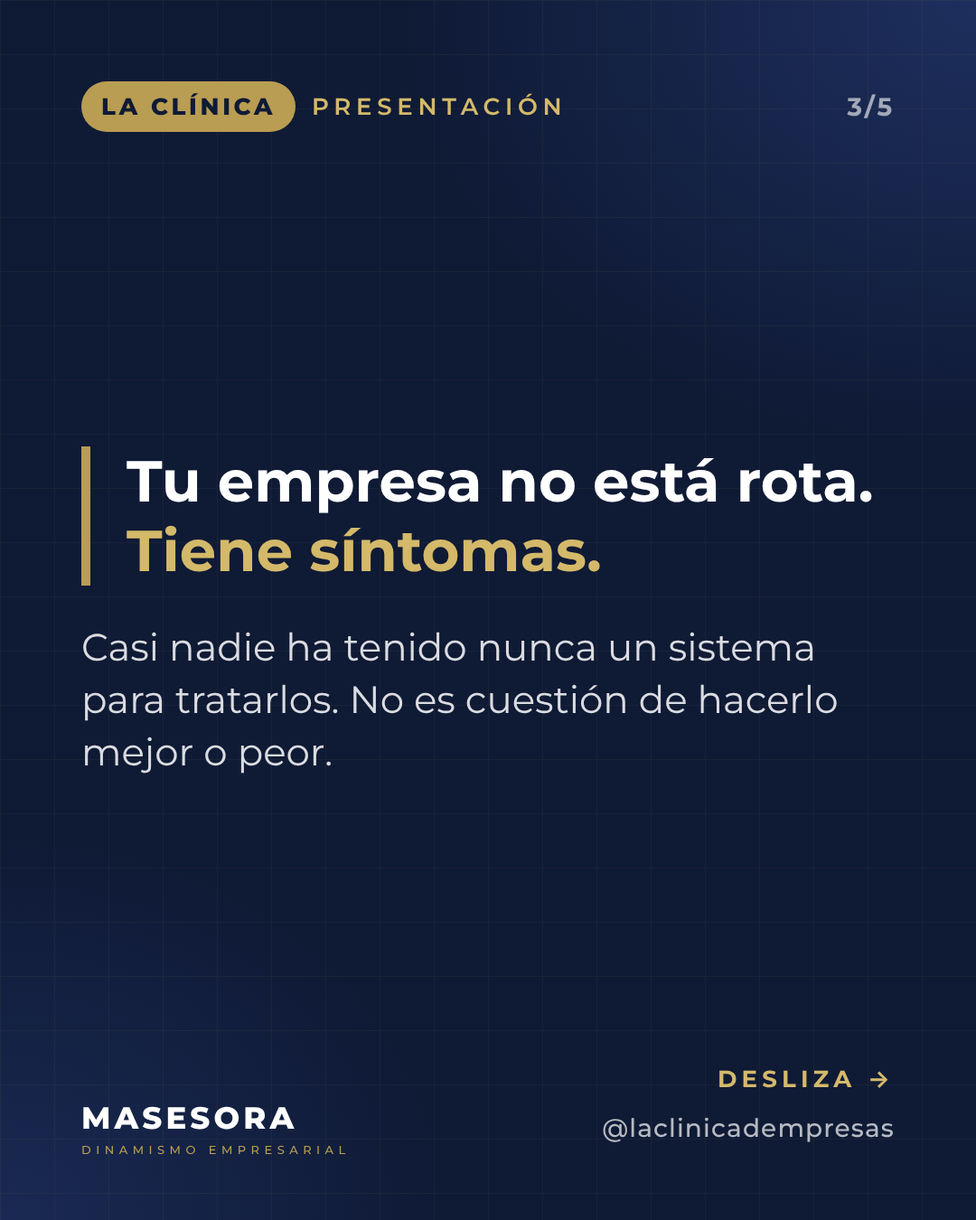
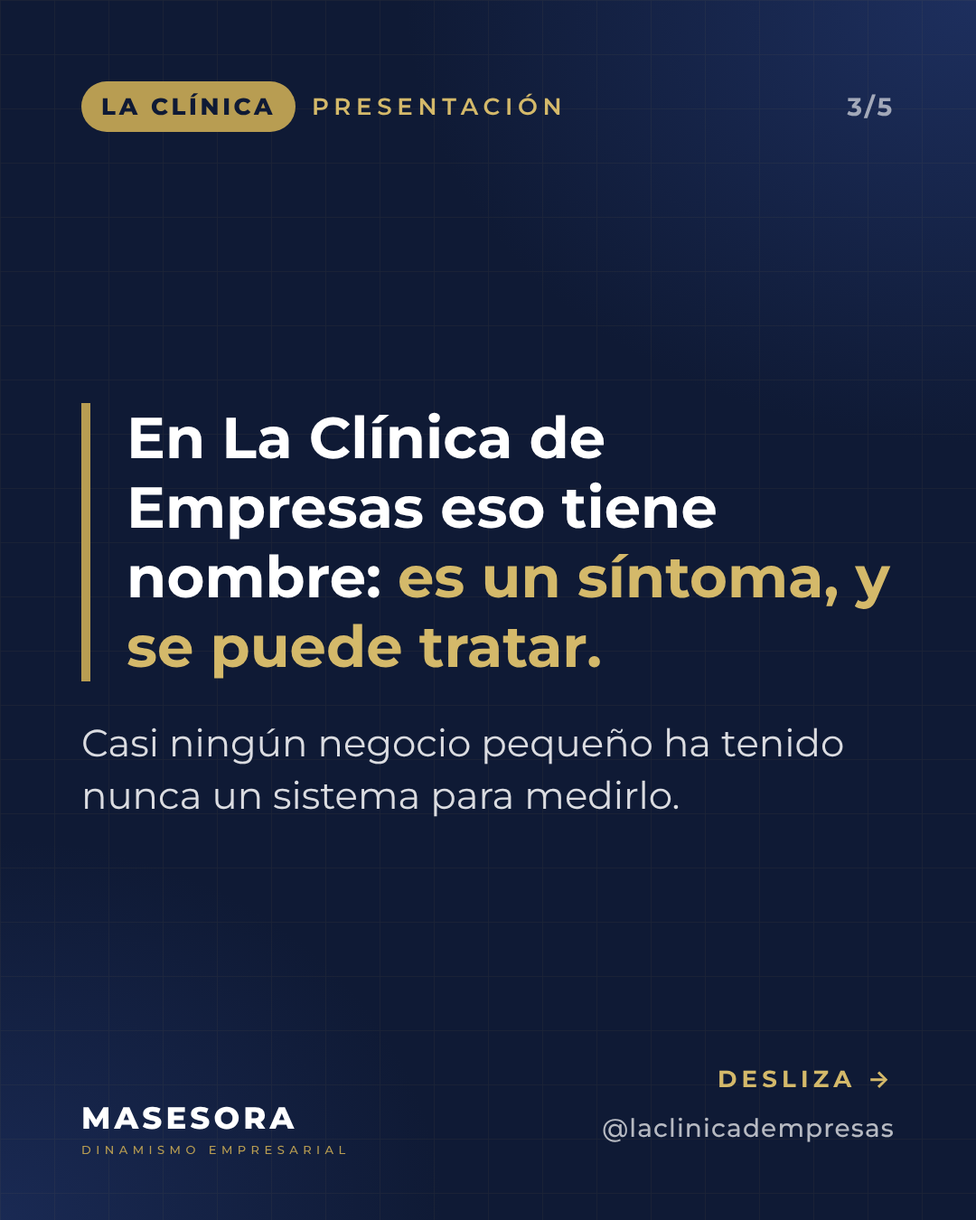
redes: presentación P1-P3 reescrita con textos más naturales
Claude-Session: https://claude.ai/code/session_01QN3AukQCP34W3Yd2qtHbgV

Changed region(s): [[0.0611, 0.3422, 0.9167, 0.6844], [0.0611, 0.3111, 0.0917, 0.3733], [0.3972, 0.6533, 0.4278, 0.6844]]

diff --git a/DOCS/6. CONTENIDO REDES/Semana 46-47 (15-17 nov) · Presentación/P3_mar-17-nov_presentacion-uci-financiera_carrusel/assets/slides.html b/DOCS/6. CONTENIDO REDES/Semana 46-47 (15-17 nov) · Presentación/P3_mar-17-nov_presentacion-uci-financiera_carrusel/assets/slides.html
@@ -18,9 +18,9 @@
 .p .safe>*:last-child{margin-bottom:auto}
 .p .note{font-size:42px}
 .p .sx span{font-size:40px}
-</style><div class="frame s6 p" data-name="01_gancho"><div class="safe"><div class="tag"><span class="pill">LA CLÍNICA</span><span class="txt">Presentación</span><span class="cnt">1/6</span></div><h1 class="top" style="font-size:86px">¿Por qué no ves a final de mes <span class="gold">todo lo que facturas?</span></h1><div class="sub">Hay tres sitios donde se queda el dinero.</div></div><div class="swipe">Desliza →</div><div class="brand"><div class="wm">MASESORA<small>DINAMISMO EMPRESARIAL</small></div><div class="hd">@laclinicadempresas</div></div></div>
-<div class="frame s6 p" data-name="02_caja"><div class="safe"><div class="tag"><span class="pill">LA CLÍNICA</span><span class="txt">Presentación</span><span class="cnt">2/6</span></div><div class="eyebrow" style="margin-top:90px">Síntoma 1</div><h2 class="dx">Obstrucción de Caja</h2><div class="esp">UCI Financiera</div><div class="note" style="margin-top:0">Dinero atrapado en mercancía parada, en anticipos o en trabajos terminados que aún no has facturado.</div></div><div class="swipe">Desliza →</div><div class="brand"><div class="wm">MASESORA<small>DINAMISMO EMPRESARIAL</small></div><div class="hd">@laclinicadempresas</div></div></div>
-<div class="frame s6 p" data-name="03_cobros"><div class="safe"><div class="tag"><span class="pill">LA CLÍNICA</span><span class="txt">Presentación</span><span class="cnt">3/6</span></div><div class="eyebrow" style="margin-top:90px">Síntoma 2</div><h2 class="dx">Fuga Invisible</h2><div class="esp">UCI Financiera</div><div class="note" style="margin-top:0">Facturas vencidas sin cobrar: beneficio tuyo que estás financiando gratis a tus clientes.</div></div><div class="swipe">Desliza →</div><div class="brand"><div class="wm">MASESORA<small>DINAMISMO EMPRESARIAL</small></div><div class="hd">@laclinicadempresas</div></div></div>
-<div class="frame s6 p" data-name="04_margen"><div class="safe"><div class="tag"><span class="pill">LA CLÍNICA</span><span class="txt">Presentación</span><span class="cnt">4/6</span></div><div class="eyebrow" style="margin-top:90px">Síntoma 3</div><h2 class="dx">Anemia de Margen</h2><div class="esp">UCI Financiera</div><div class="note" style="margin-top:0">Precios que no cubren el coste real, con tu sueldo dentro. Facturas bien y sobrevives mal.</div></div><div class="swipe">Desliza →</div><div class="brand"><div class="wm">MASESORA<small>DINAMISMO EMPRESARIAL</small></div><div class="hd">@laclinicadempresas</div></div></div>
-<div class="frame s6 p" data-name="05_tratamiento"><div class="safe"><div class="tag"><span class="pill">LA CLÍNICA</span><span class="txt">Presentación</span><span class="cnt">5/6</span></div><div class="eyebrow" style="margin-top:60px">Cómo lo tratamos</div><h2>Un protocolo paso a paso, con tu consultor clínico.</h2><div class="sx"><span>Medimos tu indicador al empezar y al terminar. Si completas el tratamiento y no mejora, seguimos trabajando sin coste adicional hasta que mejore.</span></div></div><div class="swipe">Desliza →</div><div class="brand"><div class="wm">MASESORA<small>DINAMISMO EMPRESARIAL</small></div><div class="hd">@laclinicadempresas</div></div></div>
-<div class="frame s6 p" data-name="06_cierre"><div class="safe"><div class="tag"><span class="pill">LA CLÍNICA</span><span class="txt">Presentación</span><span class="cnt">6/6</span></div><h2 class="top">¿Cuál es el tuyo?</h2><div class="sub" style="margin-top:0">El Escáner te lo dice en 10 minutos. Gratis.</div><div class="go">Comenta CLINICA</div><div class="ill">y te paso el enlace</div></div><div class="brand"><div class="wm">MASESORA<small>DINAMISMO EMPRESARIAL</small></div><div class="hd">@laclinicadempresas</div></div></div>
+</style><div class="frame s6 p" data-name="01_gancho"><div class="safe"><div class="tag"><span class="pill">LA CLÍNICA</span><span class="txt">Presentación</span><span class="cnt">1/6</span></div><h1 class="top" style="font-size:86px">¿Por qué a final de mes <span class="gold">no ves todo lo que facturas?</span></h1><div class="sub">El dinero puede estar en uno de estos tres sitios.</div></div><div class="swipe">Desliza →</div><div class="brand"><div class="wm">MASESORA<small>DINAMISMO EMPRESARIAL</small></div><div class="hd">@laclinicadempresas</div></div></div>
+<div class="frame s6 p" data-name="02_caja"><div class="safe"><div class="tag"><span class="pill">LA CLÍNICA</span><span class="txt">Presentación</span><span class="cnt">2/6</span></div><div class="eyebrow">Síntoma 1</div><h2 class="dx">Obstrucción de Caja</h2><div class="esp">UCI Financiera</div><div class="note" style="margin-top:0">Dinero atrapado en mercancía parada, en anticipos o en trabajos terminados que aún no has facturado.</div></div><div class="swipe">Desliza →</div><div class="brand"><div class="wm">MASESORA<small>DINAMISMO EMPRESARIAL</small></div><div class="hd">@laclinicadempresas</div></div></div>
+<div class="frame s6 p" data-name="03_cobros"><div class="safe"><div class="tag"><span class="pill">LA CLÍNICA</span><span class="txt">Presentación</span><span class="cnt">3/6</span></div><div class="eyebrow">Síntoma 2</div><h2 class="dx">Fuga Invisible</h2><div class="esp">UCI Financiera</div><div class="note" style="margin-top:0">Facturas vencidas que siguen sin cobrar. Es dinero tuyo que tus clientes usan gratis.</div></div><div class="swipe">Desliza →</div><div class="brand"><div class="wm">MASESORA<small>DINAMISMO EMPRESARIAL</small></div><div class="hd">@laclinicadempresas</div></div></div>
+<div class="frame s6 p" data-name="04_margen"><div class="safe"><div class="tag"><span class="pill">LA CLÍNICA</span><span class="txt">Presentación</span><span class="cnt">4/6</span></div><div class="eyebrow">Síntoma 3</div><h2 class="dx">Anemia de Margen</h2><div class="esp">UCI Financiera</div><div class="note" style="margin-top:0">Precios que no cubren lo que te cuesta el trabajo, contando tu sueldo.</div></div><div class="swipe">Desliza →</div><div class="brand"><div class="wm">MASESORA<small>DINAMISMO EMPRESARIAL</small></div><div class="hd">@laclinicadempresas</div></div></div>
+<div class="frame s6 p" data-name="05_tratamiento"><div class="safe"><div class="tag"><span class="pill">LA CLÍNICA</span><span class="txt">Presentación</span><span class="cnt">5/6</span></div><div class="eyebrow">Cómo lo tratamos</div><h2>Con un protocolo paso a paso y un consultor clínico asignado.</h2><div class="sx"><span>Medimos tu indicador al empezar y al terminar. Si completas el tratamiento y no mejora, seguimos trabajando sin coste adicional hasta que mejore.</span></div></div><div class="swipe">Desliza →</div><div class="brand"><div class="wm">MASESORA<small>DINAMISMO EMPRESARIAL</small></div><div class="hd">@laclinicadempresas</div></div></div>
+<div class="frame s6 p" data-name="06_cierre"><div class="safe"><div class="tag"><span class="pill">LA CLÍNICA</span><span class="txt">Presentación</span><span class="cnt">6/6</span></div><h2 class="top">¿En cuál de los tres está tu dinero?</h2><div class="sub" style="margin-top:0">El Escáner te lo dice en 10 minutos, y es gratis.</div><div class="go">Comenta CLINICA</div><div class="ill">y te paso el enlace</div></div><div class="brand"><div class="wm">MASESORA<small>DINAMISMO EMPRESARIAL</small></div><div class="hd">@laclinicadempresas</div></div></div>

diff --git a/DOCS/6. CONTENIDO REDES/Semana 46-47 (15-17 nov) · Presentación/P1_dom-15-nov_presentacion-que-le-duele_carrusel/assets/slides.html b/DOCS/6. CONTENIDO REDES/Semana 46-47 (15-17 nov) · Presentación/P1_dom-15-nov_presentacion-que-le-duele_carrusel/assets/slides.html
@@ -18,8 +18,8 @@
 .p .safe>*:last-child{margin-bottom:auto}
 .p .note{font-size:42px}
 .p .sx span{font-size:40px}
-</style><div class="frame s6 p" data-name="01_gancho"><div class="safe"><div class="tag"><span class="pill">LA CLÍNICA</span><span class="txt">Presentación</span><span class="cnt">1/5</span></div><h1 class="top">¿Qué le duele a <span class="gold">tu empresa?</span></h1><div class="sub">Casi siempre lo sabes.<br>Lo que falta es ponerle nombre.</div></div><div class="swipe">Desliza →</div><div class="brand"><div class="wm">MASESORA<small>DINAMISMO EMPRESARIAL</small></div><div class="hd">@laclinicadempresas</div></div></div>
-<div class="frame s6 p" data-name="02_sintomas"><div class="safe"><div class="tag"><span class="pill">LA CLÍNICA</span><span class="txt">Presentación</span><span class="cnt">2/5</span></div><div class="eyebrow" style="margin-top:60px">Lo que oímos cada semana</div><div class="sx"><b>Dinero</b><span>Facturas bien y a final de mes no se nota.</span></div><div class="sx"><b>Equipo</b><span>Si no estás tú, las cosas no salen.</span></div><div class="sx"><b>Ventas</b><span>Meses buenos y meses vacíos, sin saber por qué.</span></div></div><div class="swipe">Desliza →</div><div class="brand"><div class="wm">MASESORA<small>DINAMISMO EMPRESARIAL</small></div><div class="hd">@laclinicadempresas</div></div></div>
-<div class="frame s6 p" data-name="03_premisa"><div class="safe"><div class="tag"><span class="pill">LA CLÍNICA</span><span class="txt">Presentación</span><span class="cnt">3/5</span></div><div class="quote top">Tu empresa no está rota.<br><em>Tiene síntomas.</em></div><div class="note">Casi nadie ha tenido nunca un sistema para tratarlos. No es cuestión de hacerlo mejor o peor.</div></div><div class="swipe">Desliza →</div><div class="brand"><div class="wm">MASESORA<small>DINAMISMO EMPRESARIAL</small></div><div class="hd">@laclinicadempresas</div></div></div>
-<div class="frame s6 p" data-name="04_la-clinica"><div class="safe"><div class="tag"><span class="pill">LA CLÍNICA</span><span class="txt">Presentación</span><span class="cnt">4/5</span></div><div class="eyebrow" style="margin-top:40px">Esto es La Clínica de Empresas</div><div class="step"><div class="n">1</div><div class="t">Diagnóstico<span>Dónde está el síntoma, con tus números.</span></div></div><div class="step"><div class="n">2</div><div class="t">Tratamiento<span>Un protocolo paso a paso, con tu consultor clínico.</span></div></div><div class="step"><div class="n">3</div><div class="t">Alta<span>Cuando tu número ha mejorado de verdad.</span></div></div></div><div class="swipe">Desliza →</div><div class="brand"><div class="wm">MASESORA<small>DINAMISMO EMPRESARIAL</small></div><div class="hd">@laclinicadempresas</div></div></div>
-<div class="frame s6 p" data-name="05_cierre"><div class="safe"><div class="tag"><span class="pill">LA CLÍNICA</span><span class="txt">Presentación</span><span class="cnt">5/5</span></div><h2 class="top">Todo empieza por el diagnóstico.</h2><div class="sub" style="margin-top:0">Escáner de Salud Empresarial: gratis y en 10 minutos.</div><div class="go">Comenta CLINICA</div><div class="ill">y te paso el enlace</div></div><div class="brand"><div class="wm">MASESORA<small>DINAMISMO EMPRESARIAL</small></div><div class="hd">@laclinicadempresas</div></div></div>
+</style><div class="frame s6 p" data-name="01_gancho"><div class="safe"><div class="tag"><span class="pill">LA CLÍNICA</span><span class="txt">Presentación</span><span class="cnt">1/5</span></div><h1 class="top">¿Qué le duele a <span class="gold">tu empresa?</span></h1><div class="sub">Seguramente lo notas cada mes, aunque nadie le haya puesto nombre.</div></div><div class="swipe">Desliza →</div><div class="brand"><div class="wm">MASESORA<small>DINAMISMO EMPRESARIAL</small></div><div class="hd">@laclinicadempresas</div></div></div>
+<div class="frame s6 p" data-name="02_sintomas"><div class="safe"><div class="tag"><span class="pill">LA CLÍNICA</span><span class="txt">Presentación</span><span class="cnt">2/5</span></div><div class="eyebrow">Lo que nos cuentan los dueños</div><div class="sx"><b>Caja</b><span>Facturas bien, pero a final de mes la cuenta no lo refleja.</span></div><div class="sx"><b>Ventas</b><span>Hay meses buenos y meses vacíos, y no sabes bien por qué.</span></div></div><div class="swipe">Desliza →</div><div class="brand"><div class="wm">MASESORA<small>DINAMISMO EMPRESARIAL</small></div><div class="hd">@laclinicadempresas</div></div></div>
+<div class="frame s6 p" data-name="03_premisa"><div class="safe"><div class="tag"><span class="pill">LA CLÍNICA</span><span class="txt">Presentación</span><span class="cnt">3/5</span></div><div class="quote top">En La Clínica de Empresas eso tiene nombre: <em>es un síntoma, y se puede tratar.</em></div><div class="note">Casi ningún negocio pequeño ha tenido nunca un sistema para medirlo.</div></div><div class="swipe">Desliza →</div><div class="brand"><div class="wm">MASESORA<small>DINAMISMO EMPRESARIAL</small></div><div class="hd">@laclinicadempresas</div></div></div>
+<div class="frame s6 p" data-name="04_la-clinica"><div class="safe"><div class="tag"><span class="pill">LA CLÍNICA</span><span class="txt">Presentación</span><span class="cnt">4/5</span></div><div class="eyebrow">Cómo trabajamos</div><div class="step"><div class="n">1</div><div class="t">Diagnóstico<span>Medimos el síntoma con tus números.</span></div></div><div class="step"><div class="n">2</div><div class="t">Tratamiento<span>Lo trabajas paso a paso con tu consultor clínico.</span></div></div><div class="step"><div class="n">3</div><div class="t">Alta<span>Te la damos cuando el número ha mejorado.</span></div></div></div><div class="swipe">Desliza →</div><div class="brand"><div class="wm">MASESORA<small>DINAMISMO EMPRESARIAL</small></div><div class="hd">@laclinicadempresas</div></div></div>
+<div class="frame s6 p" data-name="05_cierre"><div class="safe"><div class="tag"><span class="pill">LA CLÍNICA</span><span class="txt">Presentación</span><span class="cnt">5/5</span></div><h2 class="top">El primer paso es el Escáner de Salud Empresarial.</h2><div class="sub" style="margin-top:0">Es gratis y se hace en 10 minutos.</div><div class="go">Comenta CLINICA</div><div class="ill">y te paso el enlace</div></div><div class="brand"><div class="wm">MASESORA<small>DINAMISMO EMPRESARIAL</small></div><div class="hd">@laclinicadempresas</div></div></div>

diff --git a/DOCS/6. CONTENIDO REDES/Semana 46-47 (15-17 nov) · Presentación/P2_lun-16-nov_presentacion-que-le-falla_carrusel/assets/slides.html b/DOCS/6. CONTENIDO REDES/Semana 46-47 (15-17 nov) · Presentación/P2_lun-16-nov_presentacion-que-le-falla_carrusel/assets/slides.html
@@ -18,8 +18,8 @@
 .p .safe>*:last-child{margin-bottom:auto}
 .p .note{font-size:42px}
 .p .sx span{font-size:40px}
-</style><div class="frame s6 p" data-name="01_gancho"><div class="safe"><div class="tag"><span class="pill">LA CLÍNICA</span><span class="txt">Presentación</span><span class="cnt">1/5</span></div><h1 class="top">¿Qué le falla a <span class="gold">tu negocio?</span></h1><div class="sub">¿El dinero? ¿El equipo? ¿Las ventas?<br>A veces, todo a la vez.</div></div><div class="swipe">Desliza →</div><div class="brand"><div class="wm">MASESORA<small>DINAMISMO EMPRESARIAL</small></div><div class="hd">@laclinicadempresas</div></div></div>
-<div class="frame s6 p" data-name="02_organismo"><div class="safe"><div class="tag"><span class="pill">LA CLÍNICA</span><span class="txt">Presentación</span><span class="cnt">2/5</span></div><div class="quote top">Un negocio funciona como un organismo: <em>si una parte falla, lo nota todo lo demás.</em></div></div><div class="swipe">Desliza →</div><div class="brand"><div class="wm">MASESORA<small>DINAMISMO EMPRESARIAL</small></div><div class="hd">@laclinicadempresas</div></div></div>
-<div class="frame s6 p" data-name="03_diagnostico"><div class="safe"><div class="tag"><span class="pill">LA CLÍNICA</span><span class="txt">Presentación</span><span class="cnt">3/5</span></div><div class="eyebrow" style="margin-top:150px">Antes de tratar</div><h2>Ningún médico receta sin mirar.<br><span class="gold">Nosotros tampoco.</span></h2></div><div class="swipe">Desliza →</div><div class="brand"><div class="wm">MASESORA<small>DINAMISMO EMPRESARIAL</small></div><div class="hd">@laclinicadempresas</div></div></div>
-<div class="frame s6 p" data-name="04_escaner"><div class="safe"><div class="tag"><span class="pill">LA CLÍNICA</span><span class="txt">Presentación</span><span class="cnt">4/5</span></div><div class="eyebrow" style="margin-top:40px">El Escáner de Salud Empresarial</div><div class="step"><div class="n">1</div><div class="t">Respondes desde el móvil<span>En 10 minutos, sin papeles.</span></div></div><div class="step"><div class="n">2</div><div class="t">Recibes tu informe por email<span>Con los síntomas que tiene tu negocio.</span></div></div><div class="step"><div class="n">3</div><div class="t">Entras en La Clínica<span>Con tu código de acceso.</span></div></div></div><div class="swipe">Desliza →</div><div class="brand"><div class="wm">MASESORA<small>DINAMISMO EMPRESARIAL</small></div><div class="hd">@laclinicadempresas</div></div></div>
-<div class="frame s6 p" data-name="05_cierre"><div class="safe"><div class="tag"><span class="pill">LA CLÍNICA</span><span class="txt">Presentación</span><span class="cnt">5/5</span></div><h2 class="top">Gratis y sin compromiso.</h2><div class="sub" style="margin-top:0">Saber dónde está el síntoma es el primer paso.</div><div class="go">Comenta CLINICA</div><div class="ill">y te paso el enlace del Escáner</div></div><div class="brand"><div class="wm">MASESORA<small>DINAMISMO EMPRESARIAL</small></div><div class="hd">@laclinicadempresas</div></div></div>
+</style><div class="frame s6 p" data-name="01_gancho"><div class="safe"><div class="tag"><span class="pill">LA CLÍNICA</span><span class="txt">Presentación</span><span class="cnt">1/5</span></div><h1 class="top">¿Qué le falla a <span class="gold">tu negocio?</span></h1><div class="sub">A veces es la caja, a veces el equipo o las ventas, y a menudo varias cosas a la vez.</div></div><div class="swipe">Desliza →</div><div class="brand"><div class="wm">MASESORA<small>DINAMISMO EMPRESARIAL</small></div><div class="hd">@laclinicadempresas</div></div></div>
+<div class="frame s6 p" data-name="02_conjunto"><div class="safe"><div class="tag"><span class="pill">LA CLÍNICA</span><span class="txt">Presentación</span><span class="cnt">2/5</span></div><div class="quote top">Cuando una parte del negocio falla, <em>las demás lo acaban notando.</em></div></div><div class="swipe">Desliza →</div><div class="brand"><div class="wm">MASESORA<small>DINAMISMO EMPRESARIAL</small></div><div class="hd">@laclinicadempresas</div></div></div>
+<div class="frame s6 p" data-name="03_diagnostico"><div class="safe"><div class="tag"><span class="pill">LA CLÍNICA</span><span class="txt">Presentación</span><span class="cnt">3/5</span></div><div class="eyebrow">Antes de tratar</div><h2>Primero miramos el negocio entero, <span class="gold">igual que un médico antes de recetar.</span></h2></div><div class="swipe">Desliza →</div><div class="brand"><div class="wm">MASESORA<small>DINAMISMO EMPRESARIAL</small></div><div class="hd">@laclinicadempresas</div></div></div>
+<div class="frame s6 p" data-name="04_escaner"><div class="safe"><div class="tag"><span class="pill">LA CLÍNICA</span><span class="txt">Presentación</span><span class="cnt">4/5</span></div><div class="eyebrow">El Escáner de Salud Empresarial</div><div class="step"><div class="n">1</div><div class="t">Contestas desde el móvil<span>Te lleva 10 minutos.</span></div></div><div class="step"><div class="n">2</div><div class="t">Te llega un informe por email<span>Con los síntomas de tu negocio.</span></div></div><div class="step"><div class="n">3</div><div class="t">Entras en La Clínica<span>Con el código que viene en el informe.</span></div></div></div><div class="swipe">Desliza →</div><div class="brand"><div class="wm">MASESORA<small>DINAMISMO EMPRESARIAL</small></div><div class="hd">@laclinicadempresas</div></div></div>
+<div class="frame s6 p" data-name="05_cierre"><div class="safe"><div class="tag"><span class="pill">LA CLÍNICA</span><span class="txt">Presentación</span><span class="cnt">5/5</span></div><h2 class="top">El Escáner es gratis y no te compromete a nada.</h2><div class="go">Comenta CLINICA</div><div class="ill">y te paso el enlace</div></div><div class="brand"><div class="wm">MASESORA<small>DINAMISMO EMPRESARIAL</small></div><div class="hd">@laclinicadempresas</div></div></div>

diff --git a/DOCS/6. CONTENIDO REDES/Semana 46-47 (15-17 nov) · Presentación/P3_mar-17-nov_presentacion-uci-financiera_carrusel/pieza.md b/DOCS/6. CONTENIDO REDES/Semana 46-47 (15-17 nov) · Presentación/P3_mar-17-nov_presentacion-uci-financiera_carrusel/pieza.md
@@ -10,38 +10,40 @@
 | **Redes** | Instagram y TikTok (mismo contenido; en TikTok el cierre es «Enlace en mi perfil») |
 
 ## Gancho
-**¿Por qué no ves a final de mes todo lo que facturas?**
+**¿Por qué a final de mes no ves todo lo que facturas?**
 
 Alternativas (si prefieres otra, escríbela en «Cambios pedidos» y se rehace la portada):
-- «Facturas bien y sobrevives mal. Hay tres razones.»
-- «El dinero que ganas se queda en tres sitios. ¿En cuál está el tuyo?»
+- «Facturas bien y a final de mes no te queda.»
+- «¿Dónde se queda el dinero que facturas?»
 
 ## Pie de publicación · Instagram
 ```
-¿Por qué no ves a final de mes todo lo que facturas? Hay tres sitios donde se queda el dinero:
+¿Por qué a final de mes no ves todo lo que facturas? El dinero puede estar en uno de estos tres sitios:
 
-· Obstrucción de Caja: dinero atrapado en mercancía parada, en anticipos o en trabajos terminados que aún no has facturado.
-· Fuga Invisible: facturas vencidas sin cobrar, beneficio tuyo que estás financiando gratis a tus clientes.
-· Anemia de Margen: precios que no cubren el coste real, con tu sueldo dentro.
+Obstrucción de Caja: dinero atrapado en mercancía parada, en anticipos o en trabajos terminados que aún no has facturado.
+Fuga Invisible: facturas vencidas que siguen sin cobrar. Es dinero tuyo que tus clientes usan gratis.
+Anemia de Margen: precios que no cubren lo que te cuesta el trabajo, contando tu sueldo.
 
-En la UCI Financiera de La Clínica de Empresas los tratamos con un protocolo paso a paso y tu consultor clínico. Medimos tu indicador al empezar y al terminar. Si completas el tratamiento y no mejora, seguimos trabajando sin coste adicional hasta que mejore.
+En la UCI Financiera de La Clínica de Empresas los tratamos con un protocolo paso a paso y un consultor clínico asignado. Medimos tu indicador al empezar y al terminar. Si completas el tratamiento y no mejora, seguimos trabajando sin coste adicional hasta que mejore.
 
-¿Cuál es el tuyo? El Escáner te lo dice en 10 minutos, gratis. Comenta CLINICA y te paso el enlace.
+¿En cuál de los tres está tu dinero? El Escáner te lo dice en 10 minutos, y es gratis.
+Comenta CLINICA y te paso el enlace.
 
 #LaClinicaDeEmpresas #autonomos #pymes #saludempresarial #MarinaBaixa
 ```
 
 ## Pie de publicación · TikTok
 ```
-¿Por qué no ves a final de mes todo lo que facturas? Hay tres sitios donde se queda el dinero:
+¿Por qué a final de mes no ves todo lo que facturas? El dinero puede estar en uno de estos tres sitios:
 
-· Obstrucción de Caja: dinero atrapado en mercancía parada, en anticipos o en trabajos terminados que aún no has facturado.
-· Fuga Invisible: facturas vencidas sin cobrar, beneficio tuyo que estás financiando gratis a tus clientes.
-· Anemia de Margen: precios que no cubren el coste real, con tu sueldo dentro.
+Obstrucción de Caja: dinero atrapado en mercancía parada, en anticipos o en trabajos terminados que aún no has facturado.
+Fuga Invisible: facturas vencidas que siguen sin cobrar. Es dinero tuyo que tus clientes usan gratis.
+Anemia de Margen: precios que no cubren lo que te cuesta el trabajo, contando tu sueldo.
 
-En la UCI Financiera de La Clínica de Empresas los tratamos con un protocolo paso a paso y tu consultor clínico. Medimos tu indicador al empezar y al terminar. Si completas el tratamiento y no mejora, seguimos trabajando sin coste adicional hasta que mejore.
+En la UCI Financiera de La Clínica de Empresas los tratamos con un protocolo paso a paso y un consultor clínico asignado. Medimos tu indicador al empezar y al terminar. Si completas el tratamiento y no mejora, seguimos trabajando sin coste adicional hasta que mejore.
 
-¿Cuál es el tuyo? El Escáner te lo dice en 10 minutos, gratis. Enlace en mi perfil.
+¿En cuál de los tres está tu dinero? El Escáner te lo dice en 10 minutos, y es gratis.
+Enlace en mi perfil.
 
 #LaClinicaDeEmpresas #autonomos #pymes #saludempresarial #MarinaBaixa
 ```
@@ -57,6 +59,7 @@ En la UCI Financiera de La Clínica de Empresas los tratamos con un protocolo pa
 
 ## Estado del agente
 - 15 nov · Producción: diseños, pies y hashtags listos para revisar.
+- 15 nov · Textos reescritos a petición de Maite (más naturales, sin frases hechas).
 
 ## Lista de comprobación
 - [x] Imagen o diseño en `assets/`

diff --git a/DOCS/6. CONTENIDO REDES/Semana 46-47 (15-17 nov) · Presentación/P2_lun-16-nov_presentacion-que-le-falla_carrusel/pieza.md b/DOCS/6. CONTENIDO REDES/Semana 46-47 (15-17 nov) · Presentación/P2_lun-16-nov_presentacion-que-le-falla_carrusel/pieza.md
@@ -13,43 +13,35 @@
 **¿Qué le falla a tu negocio?**
 
 Alternativas (si prefieres otra, escríbela en «Cambios pedidos» y se rehace la portada):
-- «¿Qué le falla a tu equipo?» (tu propuesta; mismo cuerpo)
-- «Ningún médico receta sin mirar. Nosotros tampoco.» (el gancho de la 3ª imagen como portada)
+- «¿Qué le falla a tu equipo?» (tu propuesta; el resto de la pieza no cambia)
+- «¿Cuándo miraste tu negocio entero por última vez?»
 
 ## Pie de publicación · Instagram
 ```
-¿Qué le falla a tu negocio? ¿El dinero? ¿El equipo? ¿Las ventas? A veces, todo a la vez.
+¿Qué le falla a tu negocio? A veces es la caja, a veces el equipo o las ventas, y a menudo varias cosas a la vez. Cuando una parte falla, las demás lo acaban notando.
 
-Un negocio funciona como un organismo: si una parte falla, lo nota todo lo demás. Y ningún médico receta sin mirar. Nosotros tampoco.
+Por eso en La Clínica de Empresas primero miramos el negocio entero, igual que un médico antes de recetar. Lo hacemos con el Escáner de Salud Empresarial: contestas desde el móvil en 10 minutos, te llega por email un informe con los síntomas de tu negocio y, con el código del informe, entras en La Clínica.
 
-Por eso en La Clínica de Empresas todo empieza por el Escáner de Salud Empresarial:
-1. Respondes desde el móvil, en 10 minutos.
-2. Recibes tu informe por email con los síntomas de tu negocio.
-3. Con tu código de acceso, entras en La Clínica.
-
-Gratis y sin compromiso. Comenta CLINICA y te paso el enlace del Escáner.
+El Escáner es gratis y no te compromete a nada.
+Comenta CLINICA y te paso el enlace.
 
 #LaClinicaDeEmpresas #autonomos #pymes #saludempresarial #MarinaBaixa
 ```
 
 ## Pie de publicación · TikTok
 ```
-¿Qué le falla a tu negocio? ¿El dinero? ¿El equipo? ¿Las ventas? A veces, todo a la vez.
+¿Qué le falla a tu negocio? A veces es la caja, a veces el equipo o las ventas, y a menudo varias cosas a la vez. Cuando una parte falla, las demás lo acaban notando.
 
-Un negocio funciona como un organismo: si una parte falla, lo nota todo lo demás. Y ningún médico receta sin mirar. Nosotros tampoco.
+Por eso en La Clínica de Empresas primero miramos el negocio entero, igual que un médico antes de recetar. Lo hacemos con el Escáner de Salud Empresarial: contestas desde el móvil en 10 minutos, te llega por email un informe con los síntomas de tu negocio y, con el código del informe, entras en La Clínica.
 
-Por eso en La Clínica de Empresas todo empieza por el Escáner de Salud Empresarial:
-1. Respondes desde el móvil, en 10 minutos.
-2. Recibes tu informe por email con los síntomas de tu negocio.
-3. Con tu código de acceso, entras en La Clínica.
-
-Gratis y sin compromiso. Enlace en mi perfil.
+El Escáner es gratis y no te compromete a nada.
+Enlace en mi perfil.
 
 #LaClinicaDeEmpresas #autonomos #pymes #saludempresarial #MarinaBaixa
 ```
 
 ## Archivos para publicar
-- Instagram (carrusel) y TikTok (modo foto), en este orden: `assets/01_gancho.png`, `assets/02_organismo.png`, `assets/03_diagnostico.png`, `assets/04_escaner.png`, `assets/05_cierre.png`
+- Instagram (carrusel) y TikTok (modo foto), en este orden: `assets/01_gancho.png`, `assets/02_conjunto.png`, `assets/03_diagnostico.png`, `assets/04_escaner.png`, `assets/05_cierre.png`
 
 ## Aprobación (la marcas tú)
 - [ ] **APROBADO PARA PUBLICAR** · Maite
@@ -59,6 +51,7 @@ Gratis y sin compromiso. Enlace en mi perfil.
 
 ## Estado del agente
 - 15 nov · Producción: diseños, pies y hashtags listos para revisar.
+- 15 nov · Textos reescritos a petición de Maite (más naturales, sin frases hechas).
 
 ## Lista de comprobación
 - [x] Imagen o diseño en `assets/`

diff --git a/DOCS/6. CONTENIDO REDES/Semana 46-47 (15-17 nov) · Presentación/P1_dom-15-nov_presentacion-que-le-duele_carrusel/pieza.md b/DOCS/6. CONTENIDO REDES/Semana 46-47 (15-17 nov) · Presentación/P1_dom-15-nov_presentacion-que-le-duele_carrusel/pieza.md
@@ -13,35 +13,33 @@
 **¿Qué le duele a tu empresa?**
 
 Alternativas (si prefieres otra, escríbela en «Cambios pedidos» y se rehace la portada):
-- «Trabajas más que nunca y a final de mes no se nota. Eso tiene nombre.»
-- «Tu empresa no está rota. Tiene síntomas.» (la premisa como portada)
+- «Trabajas más que nunca y a final de mes no lo notas en la cuenta.»
+- «Lo que le pasa a tu negocio tiene nombre, y se puede tratar.»
 
 ## Pie de publicación · Instagram
 ```
-¿Qué le duele a tu empresa?
+¿Qué le duele a tu empresa? Seguramente lo notas cada mes, aunque nadie le haya puesto nombre.
 
-Facturas bien y a final de mes no se nota. Si no estás tú, las cosas no salen. Hay meses buenos y meses vacíos, sin saber por qué.
+Facturas bien, pero a final de mes la cuenta no lo refleja. Hay meses buenos y meses vacíos, y no sabes bien por qué.
 
-Tu empresa no está rota. Tiene síntomas. Y casi nadie ha tenido nunca un sistema para tratarlos.
+En La Clínica de Empresas cada uno de esos problemas es un síntoma, y se puede tratar. Medimos el síntoma con tus números, lo trabajas paso a paso con tu consultor clínico y te damos el alta cuando el número ha mejorado.
 
-Esto es La Clínica de Empresas: diagnóstico con tus números, tratamiento paso a paso con tu consultor clínico y alta cuando tu número ha mejorado de verdad.
-
-Todo empieza por el Escáner de Salud Empresarial: gratis y en 10 minutos. Comenta CLINICA y te paso el enlace.
+El primer paso es el Escáner de Salud Empresarial. Es gratis y se hace en 10 minutos.
+Comenta CLINICA y te paso el enlace.
 
 #LaClinicaDeEmpresas #autonomos #pymes #saludempresarial #MarinaBaixa
 ```
 
 ## Pie de publicación · TikTok
 ```
-¿Qué le duele a tu empresa?
+¿Qué le duele a tu empresa? Seguramente lo notas cada mes, aunque nadie le haya puesto nombre.
 
-Facturas bien y a final de mes no se nota. Si no estás tú, las cosas no salen. Hay meses buenos y meses vacíos, sin saber por qué.
+Facturas bien, pero a final de mes la cuenta no lo refleja. Hay meses buenos y meses vacíos, y no sabes bien por qué.
 
-Tu empresa no está rota. Tiene síntomas. Y casi nadie ha tenido nunca un sistema para tratarlos.
+En La Clínica de Empresas cada uno de esos problemas es un síntoma, y se puede tratar. Medimos el síntoma con tus números, lo trabajas paso a paso con tu consultor clínico y te damos el alta cuando el número ha mejorado.
 
-Esto es La Clínica de Empresas: diagnóstico con tus números, tratamiento paso a paso con tu consultor clínico y alta cuando tu número ha mejorado de verdad.
-
-Todo empieza por el Escáner de Salud Empresarial: gratis y en 10 minutos. Enlace en mi perfil.
+El primer paso es el Escáner de Salud Empresarial. Es gratis y se hace en 10 minutos.
+Enlace en mi perfil.
 
 #LaClinicaDeEmpresas #autonomos #pymes #saludempresarial #MarinaBaixa
 ```
@@ -57,6 +55,7 @@ Todo empieza por el Escáner de Salud Empresarial: gratis y en 10 minutos. Enlac
 
 ## Estado del agente
 - 15 nov · Producción: diseños, pies y hashtags listos para revisar.
+- 15 nov · Textos reescritos a petición de Maite (más naturales, sin frases hechas).
 
 ## Lista de comprobación
 - [x] Imagen o diseño en `assets/`

diff --git a/DOCS/6. CONTENIDO REDES/00_TEMAS.md b/DOCS/6. CONTENIDO REDES/00_TEMAS.md
@@ -8,7 +8,7 @@ Sirve para **no repetir**, ver **qué interesa** a cada nicho y **añadir ideas*
 |---|---|---|---|---|---|
 | P1 | Dom 15 nov 20:00 | «¿Qué le duele a tu empresa?» | Carrusel (5) | CLINICA | programado |
 | P2 | Lun 16 nov 13:00 | «¿Qué le falla a tu negocio?» | Carrusel (5) | CLINICA | programado |
-| P3 | Mar 17 nov 13:00 | «¿Por qué no ves a final de mes todo lo que facturas?» | Carrusel (6) | CLINICA | programado |
+| P3 | Mar 17 nov 13:00 | «¿Por qué a final de mes no ves todo lo que facturas?» | Carrusel (6) | CLINICA | programado |
 
 ## Programados (los 12 del plan v2)
 
